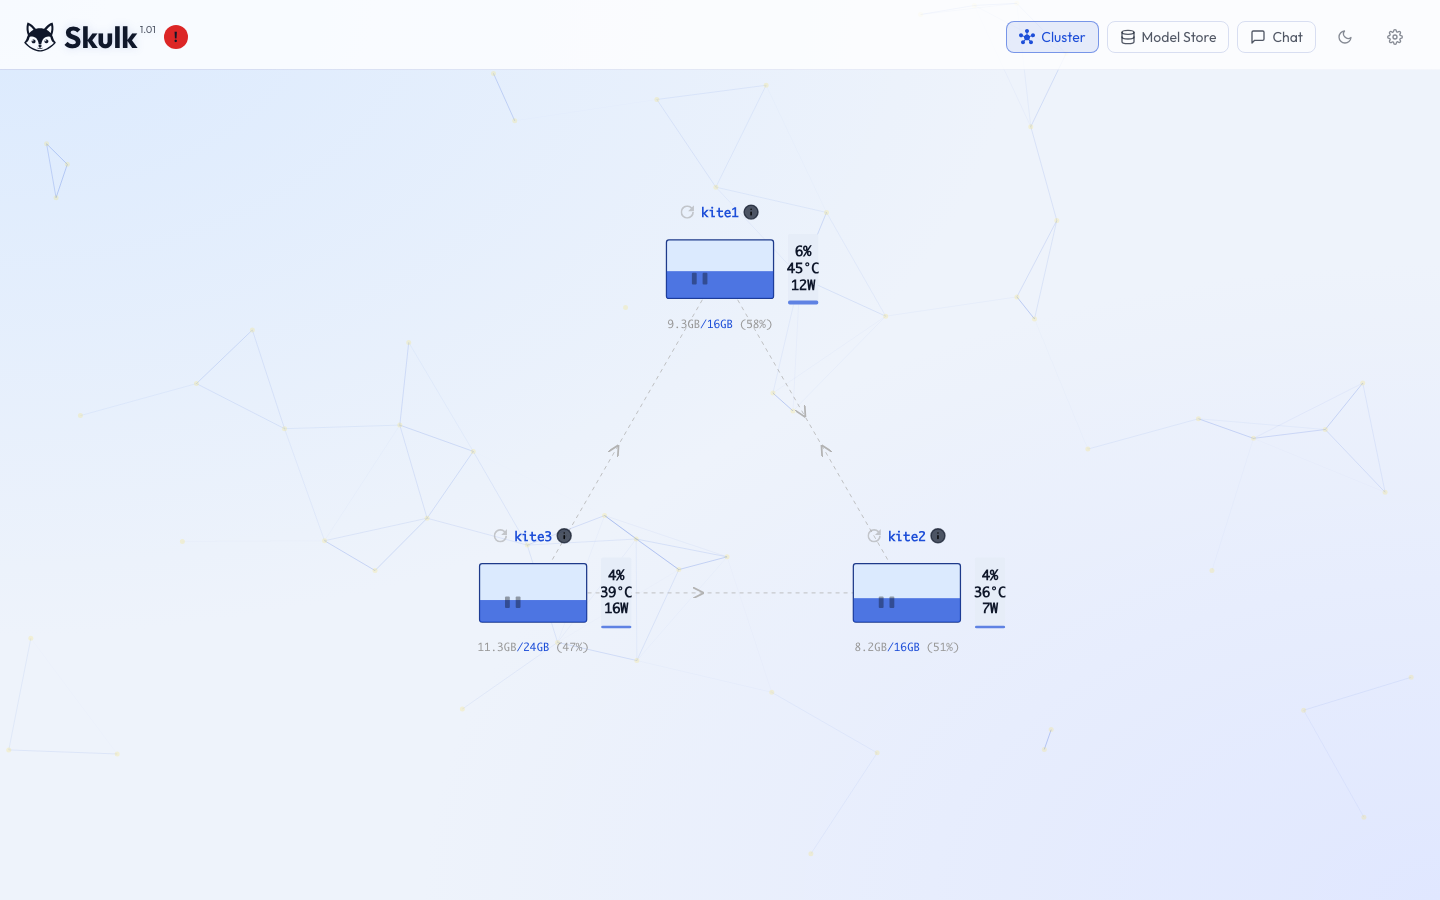
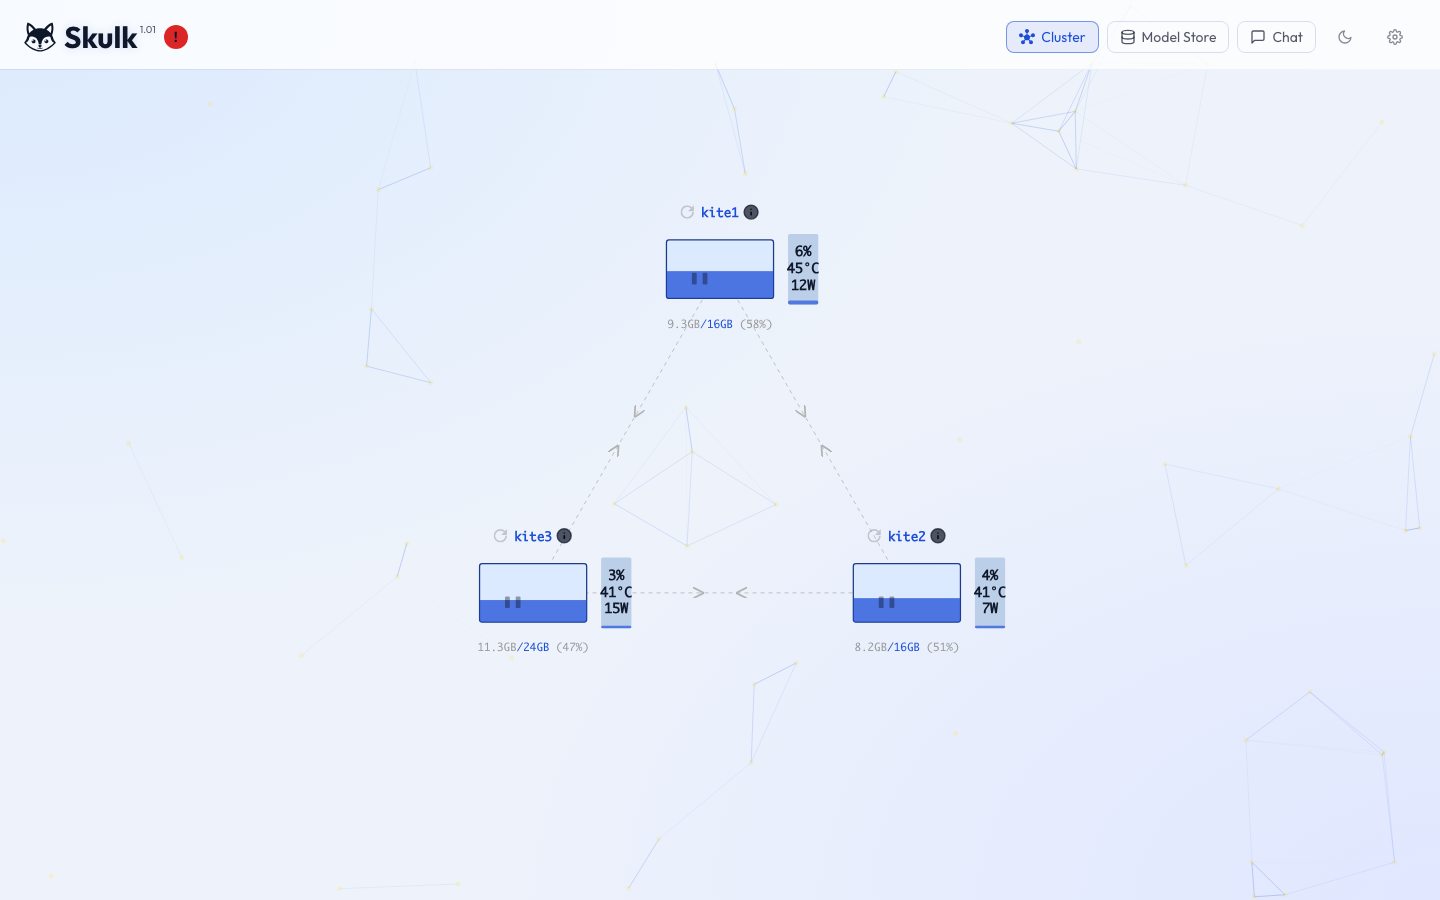
Add gpuBarBg token and darken light-mode value

diff --git a/dashboard-react/src/theme/theme.ts b/dashboard-react/src/theme/theme.ts
@@ -100,6 +100,7 @@ interface ColorTokens {
   deviceIconFill: string;
   deviceBody: string; // background fill of the device "case" in the topology icon
   ramFill: string;    // RAM-fullness fill drawn on top of deviceBody
+  gpuBarBg: string;   // empty/background fill of the GPU stats bar
   meshLine: string;
   meshNode: string;
 
@@ -164,6 +165,7 @@ const darkColors: ColorTokens = {
   deviceIconFill: 'rgba(255, 255, 255, 0.08)',
   deviceBody: '#1a1a1a',
   ramFill: 'rgba(255, 215, 0, 0.75)',
+  gpuBarBg: 'rgba(80, 80, 90, 0.7)',
   meshLine: 'rgba(255, 215, 0, 0.35)',
   meshNode: 'rgba(255, 215, 0, 0.6)',
 
@@ -230,6 +232,7 @@ const lightColors: ColorTokens = {
   deviceIconFill: 'rgba(29, 78, 216, 0.08)',
   deviceBody: '#dbeafe',          // light-blue "empty RAM" case background
   ramFill: 'rgba(29, 78, 216, 0.75)', // darker blue RAM fullness
+  gpuBarBg: '#bccfe8',             // a touch darker than the device case so the bar reads as a separate element
   meshLine: 'rgba(29, 78, 216, 0.30)',
   meshNode: 'rgba(29, 78, 216, 0.55)',
 

diff --git a/dashboard-react/src/components/topology/GpuStatsBar.tsx b/dashboard-react/src/components/topology/GpuStatsBar.tsx
@@ -33,9 +33,9 @@ export function GpuStatsBar({ gpuPercent, gpuTemp, sysPower, width, height }: Gp
 
   return (
     <g>
-      {/* Background — softer than the device body so the fullness fill stands out. */}
+      {/* Background — dedicated token so light/dark can tune contrast independently. */}
       <rect x={0} y={0} width={width} height={height}
-        fill={theme.colors.surfaceHover} rx={2} />
+        fill={theme.colors.gpuBarBg} rx={2} />
       {/* Fill from bottom */}
       {gpuPercent > 0 && (
         <rect x={0} y={height - fillHeight} width={width} height={fillHeight}
